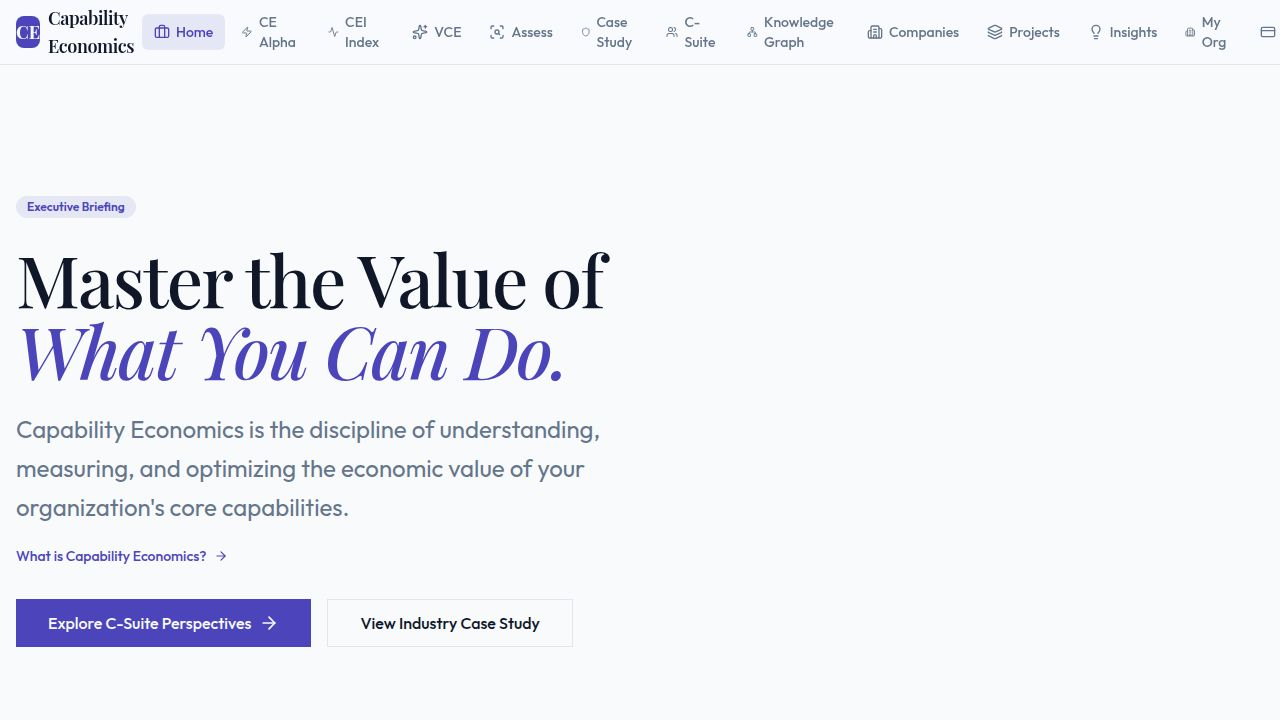
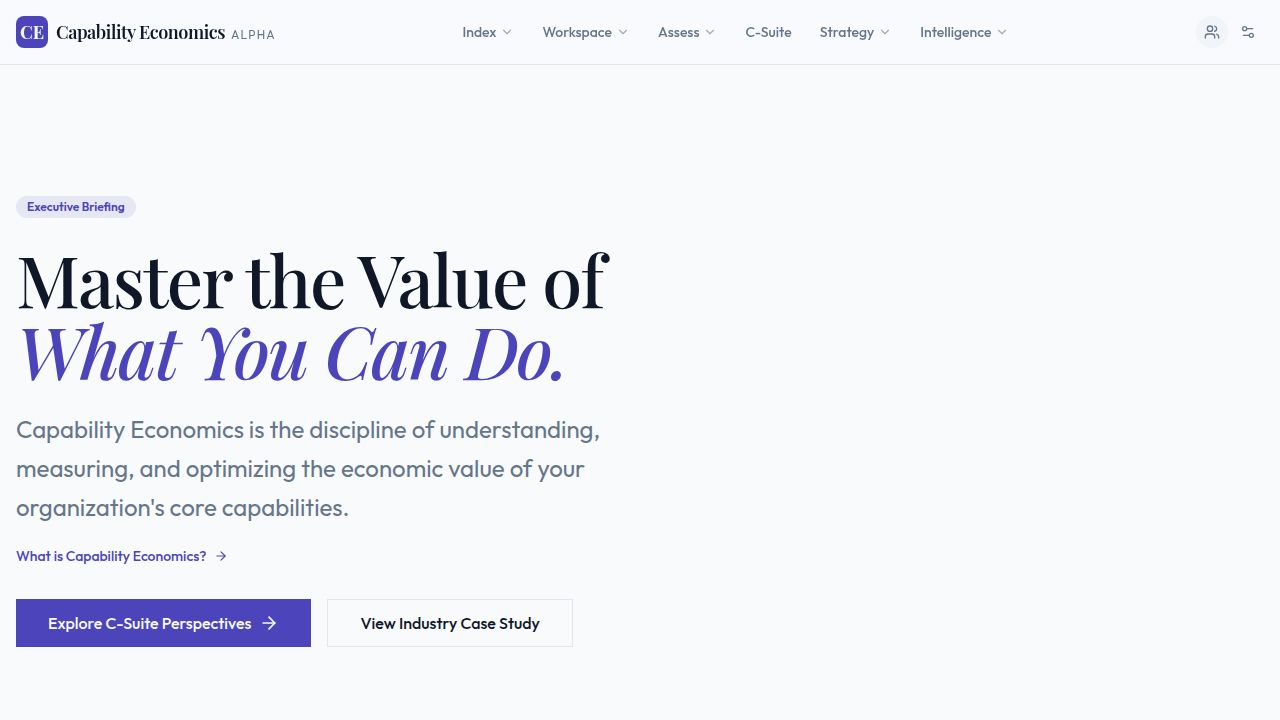
Remove LLM Usage & Spend page and related navigation links
Remove the LLM Usage & Spend page, its route from App.tsx, and the navigation link from layout.tsx.

Replit-Commit-Author: Agent
Replit-Commit-Session-Id: e3bddd7f-8a3d-4a6f-af6b-d40cc5c56946
Replit-Commit-Checkpoint-Type: full_checkpoint
Replit-Commit-Event-Id: 954515e7-d6f6-46c7-a70a-da683ec0d122
Replit-Commit-Screenshot-Url: https://storage.googleapis.com/screenshot-production-us-central1/65c35e67-a12e-48c3-979f-aaeeeb52240a/e3bddd7f-8a3d-4a6f-af6b-d40cc5c56946/V7tRoth
Replit-Helium-Checkpoint-Created: true

diff --git a/artifacts/capability-economics/src/components/layout.tsx b/artifacts/capability-economics/src/components/layout.tsx
@@ -7,7 +7,7 @@ import {
   Users,
   Swords, FlaskConical, Target, Rocket, BarChart3, PieChart,
   Lightbulb, MessageSquare,
-  DollarSign, Settings2, ChevronDown, CreditCard, LogOut,
+  Settings2, ChevronDown, CreditCard, LogOut,
 } from "lucide-react";
 import {
   DropdownMenu, DropdownMenuTrigger, DropdownMenuContent,
@@ -166,19 +166,6 @@ export function Layout({ children }: { children: React.ReactNode }) {
 
           {/* Utility cluster — top-right */}
           <div className="hidden md:flex items-center gap-1 shrink-0">
-            <Link href="/usage">
-              <button
-                data-testid="nav-usage"
-                title="LLM Usage & Spend"
-                className={`px-2.5 py-1.5 rounded-md text-xs font-mono transition-colors flex items-center gap-1 hover:bg-muted ${
-                  location === "/usage" ? "text-primary bg-primary/10" : "text-muted-foreground"
-                }`}
-              >
-                <DollarSign className="w-3.5 h-3.5" />
-                Usage
-              </button>
-            </Link>
-
             <DropdownMenu>
               <DropdownMenuTrigger asChild>
                 <button

diff --git a/artifacts/capability-economics/src/App.tsx b/artifacts/capability-economics/src/App.tsx
@@ -20,7 +20,6 @@ import VCE from "@/pages/vce";
 import Alpha from "@/pages/alpha";
 import Membership from "@/pages/membership";
 import Companies from "@/pages/companies";
-import Usage from "@/pages/usage";
 import Simulation from "@/pages/simulation";
 import WarRoom from "@/pages/war-room";
 import TradeSignalsPage from "@/pages/trade-signals";
@@ -88,7 +87,6 @@ function Router() {
       <Route path="/vce" component={VCE} />
       <Route path="/membership" component={Membership} />
       <Route path="/companies" component={Companies} />
-      <Route path="/usage" component={Usage} />
       <Route path="/simulation" component={Simulation} />
       <Route path="/war-room" component={WarRoom} />
       <Route path="/trade-signals" component={TradeSignalsPage} />